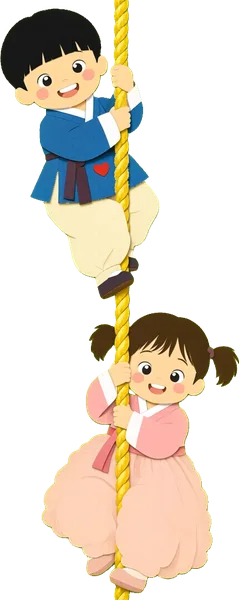
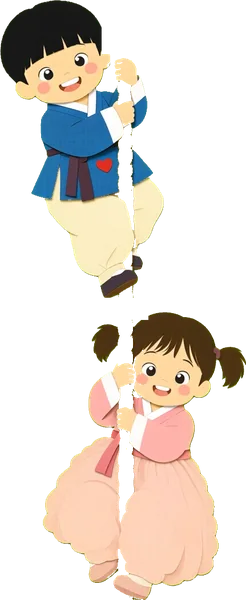
해님달님 피드백 반영: 오색 꿀떡, 엄마 손·호랑이 발·밀가루 발, 겁먹은 오누이, 두레박, 우물 컷 피부색, 참기름은 흘러내리는 자국, 동아줄 하나만, 해·달 얼굴, 장독대 뒷마당(달밤)
Claude-Session: https://claude.ai/code/session_01TGgx6k6hUQMHacUcyCA6Jo

diff --git a/tales/sunmoon/sunmoon.js b/tales/sunmoon/sunmoon.js
@@ -23,7 +23,7 @@
     hill1: 'v3w/sm_bg_hill_dusk.webp',
     hill2: 'v3w/sm_bg_hill_dusk_night.webp',
     room: 'v3w/sm_bg_room2_lamp.webp',  // 방 안 (노란 장판·닫힌 창호지 문·반닫이·이불·등잔) — 낮 그림을 등잔불 밤으로 구움, 그림 속 등잔 불꽃은 지웠다 (코드가 켠다)
-    backyard: 'v3w/sm_bg_backyard.webp',
+    backyard: 'v3w/sm_bg_backyard2_night.webp', // 뒷마당: 초가 모퉁이·돌담·장독대·감나무 (그림 속 달리는 아이 셋을 지우고 달밤으로 구움)
     sky: 'v3w/sm_bg_sky.webp',               // 구름 사이로 빛이 드는 밤하늘 (무대 뒤에 고정, 줄·구름·오누이만 위로 흐른다)
     sorghum: 'v3w/sm_bg_sorghum_dusk.webp',  // 수수밭 — 원본은 한낮이라 해 질 녘 보랏빛으로 구움 (줄이 끊어진 건 밤)
     heaven: 'v3w/sm_bg_heaven.webp', heavenNight: 'v3w/sm_bg_heaven_night.webp', // 밤 = 같은 그림을 푸른 밤으로 구운 것 (톡 하면 서서히 바뀜)         // 하늘 나라 — 그림 속 해·달은 지웠다 (해님·달님은 오누이 배우). 밤은 코드의 남색 장막
@@ -48,18 +48,22 @@
        cut_eye(두 번 다 호랑이 이마에 세 번째 눈) */
   const ART = {
     mom_wave: 'v3w/sm_mom_wave.webp', mom_basket: 'v3w/sm_mom_basket.webp',
-    boy: 'v3w/sm_boy.webp', girl: 'v3w/sm_girl.webp', kids_hug: 'v3w/sm_kids_hug.webp',
+    boy: 'v3w/sm_boy.webp', girl: 'v3w/sm_girl.webp', kids_hug: 'v3w/sm_kids_scared.webp', // 덜덜 떨 때: 둘이 껴안고 겁먹은 얼굴 (sm_kids_scared)
     kids_climb: 'v3w/sm_kids_climb.webp',
     boy_face: 'v3w/sm_boy_face.webp', girl_face: 'v3w/sm_girl_face.webp',
     tiger: 'v3w/sm_tiger.webp', tiger_full: 'v3w/sm_tiger_full.webp', tiger_scarf: 'v3w/sm_tiger_scarf.webp',
     tiger_axe: 'v3w/sm_tiger_axe.webp', tiger_slip: 'v3w/sm_tiger_slip.webp', tiger_bump: 'v3w/sm_tiger_bump.webp',
     rope_good: 'v3w/sm_rope_good.webp', rope_bad: 'v3w/sm_rope_bad.webp', oil: 'v3w/sm_oil.webp',
     kids_rope: 'v3w/sm_kids_rope.webp', // 새 모습 오누이가 세로 금빛 동아줄을 오른다 (하늘 오르기)
-    cake: 'v3w/sm_cake.webp', cake_pink: 'v3w/sm_cake_pink.webp', plate: 'v3w/sm_plate.webp', // 흰 떡(분홍 꽃)·분홍 떡(초록 잎)·빈 나무 접시
+    // 오색꿀떡 (흰 꿀떡 한 장의 명암을 살려 다섯 빛깔로 물들인 것) + 빈 나무 접시
+    kkul_white: 'v3w/sm_kkul_white.webp', kkul_pink: 'v3w/sm_kkul_pink.webp', kkul_yellow: 'v3w/sm_kkul_yellow.webp',
+    kkul_green: 'v3w/sm_kkul_green.webp', kkul_purple: 'v3w/sm_kkul_purple.webp', plate: 'v3w/sm_plate.webp',
+    hand_mom: 'v3w/sm_hand_mom.webp', paw_tiger: 'v3w/sm_paw_tiger.webp', paw_flour: 'v3w/sm_paw_flour.webp', // 문틈 손 고르기
+    bucket: 'v3w/sm_bucket.webp', // 두레박 (새끼줄에 매단 나무통)
     lamp_flame: 'v3w/sm_lamp_flame.webp', // 등잔 불꽃만 — 방 그림 속 등잔 심지 위에 켠다
-    sun_girl: 'v3w/sm_sun_girl.webp', moon_boy: 'v3w/sm_moon_boy.webp', lamp_on: 'v3w/sm_lamp_on.webp', lamp_off: 'v3w/sm_lamp_off.webp',
+    sun_girl: 'v3w/sm_sun_girl2.webp', moon_boy: 'v3w/sm_moon_boy2.webp', lamp_on: 'v3w/sm_lamp_on.webp', lamp_off: 'v3w/sm_lamp_off.webp',
     basket: null,
-    cut_well: 'v3w/sm_cut_well.webp', cut_snap: 'v3w/sm_cut_snap.webp', cut_eye: null,
+    cut_well: 'v3w/sm_cut_well2.webp', cut_snap: 'v3w/sm_cut_snap.webp', cut_eye: null,
   };
   const artOK = {};
   const artUrl = k => (ART[k] && artOK[k] !== false ? AS + ART[k] : null);
@@ -102,7 +106,7 @@
   /* 크기 (무대 단위, 배우 scale 1): 자세가 바뀌어도 머리 크기가 튀지 않게 그림마다 맞춘 값 */
   const SZ = {
     mom_wave: [125, 240], mom_basket: [114, 240],
-    boy: [71, 150], girl: [89, 158], kids_hug: [116, 146], kids_climb: [83, 223], kids_rope: [103, 259],
+    boy: [71, 150], girl: [89, 158], kids_hug: [124, 150], kids_climb: [83, 223], kids_rope: [103, 259],
     // tiger_scarf = 엄마 옷(분홍 저고리·회색 치마) 입은 호랑이 (이름만 그대로)
     tiger: [150, 235], tiger_full: [192, 230], tiger_scarf: [175, 217], tiger_axe: [159, 240], tiger_slip: [218, 225], tiger_bump: [176, 205],
   };
@@ -181,11 +185,12 @@
 
   /* ================= 캐릭터 (임시 도형) ================= */
   /* 떡: 그림이면 흰 떡(분홍 꽃)·분홍 떡(초록 잎)을 i로 번갈아. (x,y)가 떡 가운데, 폭 26·s — 세기 쉽게 늘 떡 사이가 떨어지게 놓는다 */
-  const CAKE = { cake: 1.1967, cake_pink: 1.3035 };
+  const KKUL = ['kkul_white', 'kkul_pink', 'kkul_yellow', 'kkul_green', 'kkul_purple'];
   function drawCake(T, p, x, y, s = 1, i = 0) {
-    const k = i % 2 ? 'cake_pink' : 'cake', u = artUrl(k);
+    const k = KKUL[((i % 5) + 5) % 5], u = artUrl(k);
     if (u) {
-      const w = 26 * s, h = w / CAKE[k], g = T.el('g', { filter: 'url(#pp)' }, p);
+      // 오색꿀떡: 폭 26·s (옛 떡 자리 그대로라 줄 간격·개수가 바뀌지 않는다), 둥근 꿀떡 비율 1.27
+      const w = 26 * s, h = w / 1.274, g = T.el('g', { filter: 'url(#pp)' }, p);
       T.el('image', { href: u, x: x - w / 2, y: y - h / 2, width: w, height: h }, g);
       return g;
     }
@@ -519,7 +524,7 @@
       // 그림 나무 접시 (없으면 흰 접시)
       if (!sprite(T, el('g', { transform: `translate(${690 + dx} ${400 + dy + 44})` }, plate), 'plate', 236, 96))
         T.paper(plate, [['ellipse', { cx: 690 + dx, cy: 400 + dy, rx: 110, ry, fill: C.snow, stroke: C.gold, 'stroke-width': 5 }]]);
-      plateCakes = [[630, 394], [690, 396], [750, 394], [660, 370], [720, 370]].map(([x, y]) => ({ x: x + dx, y: y + dy, g: drawCake(T, plate, x + dx, y + dy, 1.8, x === 690 || x === 660 ? 1 : 0) }));
+      plateCakes = [[630, 394], [690, 396], [750, 394], [660, 370], [720, 370]].map(([x, y]) => ({ x: x + dx, y: y + dy, g: drawCake(T, plate, x + dx, y + dy, 1.8, [630, 690, 750, 660, 720].indexOf(x)) }));
     });
     await say('엄마는 부잣집에서 하루 종일 부지런히 일했어요.');
     await say('"수고했어요. 떡 가져가요!" 떡을 톡톡 눌러서 바구니에 담아요!');
@@ -539,7 +544,7 @@
       const c = plateCakes[5 - i]; c.g.setAttribute('opacity', 0);
       const [x1, y1] = toBasket(i - 1);
       T.tone(500 + i * 90, .15, { type: 'triangle', vol: .18 });
-      fly(c.x, c.y, x1, y1, 1.8, 450, 5 - i === 1 || 5 - i === 3 ? 1 : 0).then(() => { inBasket = Math.round(TOTAL * i / 5); showBasket(); mom.P.holdBasket(true); AudioFX.pop(); });
+      fly(c.x, c.y, x1, y1, 1.8, 450, 5 - i).then(() => { inBasket = Math.round(TOTAL * i / 5); showBasket(); mom.P.holdBasket(true); AudioFX.pop(); });
       T.pop(c.x, c.y - 90, '영차!', C.bean);
     } });
     await sleep(700);
@@ -773,18 +778,23 @@
       el('rect', { x: -1400, y: -1400, width: 3800, height: 3400, fill: C.amber, opacity: .12 }, T.fx);
     });
     await say('진짜 엄마 손은 뭘까요? 잘 보고 골라 봐요!');
+    // 그림 손 (엄마 손·호랑이 발·밀가루 묻힌 발): 배지 가운데에. 없으면 아래 도형
+    const handArt = (g, k, w, h) => { const u = artUrl(k); if (!u) return false; T.el('image', { href: u, x: -w / 2, y: -h / 2, width: w, height: h, filter: 'url(#pp)' }, g); return true; };
     const handMom = badge(T, 190, 320, 112, g => {
+      if (handArt(g, 'hand_mom', 80, 176)) return;
       T.paper(g, [['ellipse', { cx: 0, cy: 22, rx: 38, ry: 42, fill: C.skin }],
         ...[-27, -9, 9, 27].map((x, i) => ['rect', { x: x - 7, y: -58 + Math.abs(i - 1.5) * 8, width: 14, height: 60, rx: 7, fill: C.skin }]),
         ['rect', { x: 30, y: -2, width: 13, height: 44, rx: 6.5, fill: C.skin, transform: 'rotate(-35 36 20)' }]]);
       [[-12, 20], [10, 34], [-4, 44], [16, 8], [-22, -30]].forEach(([x, y]) => el('circle', { cx: x, cy: y, r: 4, fill: '#fff' }, g));
     });
     const handStripe = badge(T, 500, 320, 112, g => {
+      if (handArt(g, 'paw_tiger', 162, 155)) return;
       T.paper(g, [['path', { d: 'M-60 10 L-66 0 L-58 -8 L-62 -20 L-50 -26 L-50 -40 L-36 -40 L-30 -54 L-16 -46 L0 -58 L14 -46 L30 -54 L36 -40 L50 -40 L50 -26 L62 -20 L58 -8 L66 0 L60 10 L62 30 Q50 72 0 74 Q-50 72 -62 30 Z', fill: C.persimmon }]]);
       [[-34, -34], [-12, -44], [12, -44], [34, -34]].forEach(([x, y]) => el('ellipse', { cx: x, cy: y, rx: 14, ry: 16, fill: C.persimmon, stroke: C.stripe, 'stroke-width': 3 }, g));
       ['M-50 0 L-20 8 L-48 18 Z', 'M50 0 L20 8 L48 18 Z', 'M-40 40 L-12 44 L-36 54 Z', 'M40 40 L12 44 L36 54 Z', 'M-8 -10 L0 16 L8 -10 Z'].forEach(d => el('path', { d, fill: C.stripe }, g));
     });
     const handFlour = badge(T, 810, 320, 112, g => {
+      if (handArt(g, 'paw_flour', 156, 165)) return;
       T.paper(g, [['ellipse', { cx: 0, cy: 18, rx: 58, ry: 54, fill: C.snow, stroke: '#CFC8BA', 'stroke-width': 3 }]]);
       [[-36, -34], [-12, -46], [12, -46], [36, -34]].forEach(([x, y]) => {
         el('ellipse', { cx: x, cy: y, rx: 15, ry: 17, fill: C.snow, stroke: '#CFC8BA', 'stroke-width': 3 }, g);
@@ -801,9 +811,11 @@
     handMom.remove(); handStripe.remove(); handFlour.remove();
     await say('맞아요! 엄마 손은 부드럽고 떡가루가 묻어 있지요.');
     const paw = el('g', { transform: 'translate(500,320)' }, T.world);
-    T.paper(paw, [['ellipse', { cx: 0, cy: 10, rx: 70, ry: 62, fill: C.snow }], ['ellipse', { cx: 0, cy: 20, rx: 28, ry: 20, fill: C.pink }]]);
-    [-40, -14, 14, 40].forEach(x => { el('ellipse', { cx: x, cy: -44, rx: 16, ry: 18, fill: C.snow, stroke: '#CFC8BA', 'stroke-width': 3 }, paw); el('path', { d: `M${x - 6} -58 L${x} -86 L${x + 6} -58 Z`, fill: C.ink }, paw); });
-    [[46, 50], [-50, 44], [0, 64]].forEach(([x, y]) => el('circle', { cx: x, cy: y, r: 8, fill: C.persimmon }, paw));
+    if (!handArt(paw, 'paw_flour', 150, 160)) { // 문틈으로 들어온 손 = 밀가루 묻힌 호랑이 발
+      T.paper(paw, [['ellipse', { cx: 0, cy: 10, rx: 70, ry: 62, fill: C.snow }], ['ellipse', { cx: 0, cy: 20, rx: 28, ry: 20, fill: C.pink }]]);
+      [-40, -14, 14, 40].forEach(x => { el('ellipse', { cx: x, cy: -44, rx: 16, ry: 18, fill: C.snow, stroke: '#CFC8BA', 'stroke-width': 3 }, paw); el('path', { d: `M${x - 6} -58 L${x} -86 L${x + 6} -58 Z`, fill: C.ink }, paw); });
+      [[46, 50], [-50, 44], [0, 64]].forEach(([x, y]) => el('circle', { cx: x, cy: y, r: 8, fill: C.persimmon }, paw));
+    }
     AudioFX.slide();
     await T.anim(paw, [{ transform: 'translate(500px,320px) scale(.1)' }, { transform: 'translate(500px,320px) scale(1.2)' }], { duration: 600, easing: 'cubic-bezier(.3,1.6,.5,1)' });
     paw.setAttribute('transform', 'translate(500,320) scale(1.2)'); paw.style.transform = '';
@@ -850,14 +862,15 @@
 
     /* --- 10. 뒷마당 도망 --- */
     let yard, hideJar, bigJar, prowl;
-    /* 뒷마당 그림(장독대 → 빨랫줄 → 우물 → 큰 나무)을 뒷마당 긴 세트 안에 1.75배로 깐다.
-       그림 왼쪽 바깥(x<520)은 그레이박스 집 뒷문 자리. 좌표: 장독(숨는 곳) x≈575~795, 그림 끝 x=2270 */
-    const YARD = bgUrl('backyard') ? { x: 520, y: -186, w: 1750, h: 1750 * 992 / 1760 } : null;
-    const YJ = YARD ? { run1: 150, hide: [720, 660], out: [930, 850], run2: 250, prowl: [100, T.portrait() ? 760 : 840] }
-      : { run1: 320, hide: [1110, 1050], out: [1330, 1250], run2: 330, prowl: [520, 900] };
-    /* 맨 앞 큰 장독 (원본 픽셀): 뚜껑 → 어깨 → 몸통 → 밑동. 가림막은 밑동 아래 땅까지 */
-    const JAR = [[97, 452], [228, 452], [240, 488], [272, 508], [274, 530], [262, 540], [276, 595], [268, 650], [240, 705]];
-    const JAR_L = [[102, 705], [70, 650], [52, 595], [66, 540], [68, 530], [70, 508], [86, 488]];
+    /* 뒷마당 그림 한 장(왼쪽 초가 모퉁이 → 마당 → 오른쪽 돌 장독대·감나무)을 1600 폭으로 깔고 카메라가 따라간다.
+       오누이는 마당(땅 y 520)을 달려 장독대 위, 맨 앞 큰 장독(무대 x 760~903) 뒤에 작아져서(원근) 숨는다. 그림 끝 x=1560 */
+    const YARD = bgUrl('backyard') ? { x: -40, y: -250, w: 1600, h: 1600 * 992 / 1760 } : null;
+    const YJ = YARD ? { run1: 150, hide: [868, 812], hideY: 332, hideS: .7, out: [930, 850], run2: 250, prowl: [100, T.portrait() ? 790 : 840] }
+      : { run1: 320, hide: [1110, 1050], hideY: 510, hideS: 1, out: [1330, 1250], run2: 330, prowl: [520, 900] };
+    /* 맨 앞 큰 장독 (원본 픽셀): 뚜껑 → 어깨 → 몸통 → 밑동. 가림막은 밑동 아래 장독대 윗면까지 (발이 안 보이게) */
+    const JAR = [[913, 437], [1000, 440], [1018, 468], [1022, 480], [1037, 527], [1025, 600], [1013, 627]];
+    const JAR_L = [[912, 627], [900, 603], [880, 530], [883, 500], [895, 468]];
+    const JAR_FOOT = [[1013, 660], [912, 660]];
     const yardCam = nb => {
       const x = T.portrait() ? nb + 40 : Math.max(500, nb + 180);
       return YARD ? Math.min(x, YARD.x + YARD.w - T.viewWidth() / 2) : x;
@@ -867,19 +880,14 @@
       yard = mkView(T, T.world);
       if (YARD) {
         // 그림 바깥 (왼쪽: 집 뒷문 자리, 오른쪽: 넓은 화면 여유) — 그림 가장자리 색에 맞춘 단색 띠
-        sky(T, yard, '#03237a');
-        T.el('path', { d: 'M-800 200 Q-420 120 -60 170 Q260 110 640 185 V700 H-800 Z', fill: '#1b2f78' }, yard);
-        T.el('path', { d: 'M-800 280 Q-300 240 200 270 Q450 250 640 280 V700 H-800 Z', fill: '#0f1c4e' }, yard);
-        T.el('rect', { x: -800, y: 360, width: 1400, height: 600, fill: '#3a1c06' }, yard);
-        T.el('rect', { x: -800, y: 468, width: 1400, height: 500, fill: '#b36a06' }, yard);
-        T.el('rect', { x: 2200, y: 150, width: 1400, height: 800, fill: '#1c0f06' }, yard);
-        T.el('rect', { x: 2200, y: 420, width: 1400, height: 520, fill: '#d98601' }, yard);
+        sky(T, yard, '#334386');
+        T.el('rect', { x: -1400, y: 330, width: 4400, height: 900, fill: '#767896' }, yard); // 그림 밖 땅 (그림 가장자리 색)
         place(T, yard, bgUrl('backyard'), YARD);
-        drawHouse(T, yard, 0, 470, 1);
+        stars(T, yard, [[180, -170], [420, -210], [660, -150], [1300, -200], [1480, -120]], 3.5);
         boy = mkBoy(T, yard, 230, 520, 1); girl = mkGirl(T, yard, 140, 520, .92);
         // 그림 속 장독을 오려 배우 앞에: 가림막(밑동 아래 땅까지) + 누르는 장독(장독 모양만, 반짝임 테두리용)
         const jars = el('g', {}, yard);
-        bigJar = bgCutout(T, jars, bgUrl('backyard'), YARD, [...JAR, [240, 1040], [102, 1040], ...JAR_L]);
+        bigJar = bgCutout(T, jars, bgUrl('backyard'), YARD, [...JAR, ...JAR_FOOT, ...JAR_L]);
         hideJar = el('g', {}, jars);
         bgCutout(T, hideJar, bgUrl('backyard'), YARD, [...JAR, ...JAR_L]);
         if (T.portrait()) yard.to(330, 280, 1, 0); // 세로 화면: 오누이가 보이게 마당 왼쪽부터
@@ -920,7 +928,9 @@
     AudioFX.slide();
     const jarsG = hideJar.parentNode;
     yard.insertBefore(boy.pos, jarsG); yard.insertBefore(girl.pos, jarsG);
-    await Promise.all([boy.move(YJ.hide[0], 510, 500), girl.move(YJ.hide[1], 510, 500)]);
+    // 장독대 위로 폴짝 → 큰 장독 뒤에 (그림 장독대는 안쪽이라 원근으로 작아진다)
+    await Promise.all([boy.move(YJ.hide[0], YJ.hideY, 500), girl.move(YJ.hide[1], YJ.hideY, 500), boy.hop(40, 500), girl.hop(40, 500)]);
+    boy.setScale(YJ.hideS); girl.setScale(YJ.hideS * .92);
     prowl = mkTiger(T, yard, YJ.prowl[0], 530, 1);
     prowl.P.wear('scarf'); prowl.P.setBelly(2.4); prowl.face('right');
     await prowl.move(YJ.prowl[1], 530, 1400);
@@ -929,7 +939,9 @@
     await say('"얘들아~ 어디 갔니?" 호랑이는 두리번두리번하다가 집 쪽으로 돌아갔어요.');
     await prowl.move(YJ.prowl[0] - 120, 530, 1300);
     prowl.pos.remove();
-    await Promise.all([boy.move(YJ.out[0], 520, 500), girl.move(YJ.out[1], 520, 500)]);
+    boy.setScale(1); girl.setScale(.92);
+    yard.appendChild(boy.pos); yard.appendChild(girl.pos); // 장독 앞으로 나온다
+    await Promise.all([boy.move(YJ.out[0], 520, 500), girl.move(YJ.out[1], 520, 500), boy.hop(30, 500), girl.hop(30, 500)]);
     await say('휴~ 이제 우물가 큰 나무로 달려가요! 쓱쓱!');
     await T.swipe(stageWrap, { dir: 'right', count: 3, prompt: '화면을 옆으로 쓱 밀어서 달려요!', onStep: () => run2(YJ.run2) });
     await sleep(700);
@@ -1010,7 +1022,10 @@
       el('rect', { x: 380, y: 200, width: 240, height: 170, fill: 'transparent' }, refl);
       drawKidFace(T, refl, false, 450, 290, 1.5); drawKidFace(T, refl, true, 560, 296, 1.4);
       bucket = el('g', {}, T.world);
-      T.paper(bucket, [['path', { d: 'M0 -600 V-30', stroke: '#C9B48A', 'stroke-width': 5, fill: 'none' }], ['path', { d: 'M-34 -30 H34 L26 20 H-26 Z', fill: C.bark }], ['path', { d: 'M-30 -30 Q0 -64 30 -30', stroke: C.ink, 'stroke-width': 4, fill: 'none' }]]);
+      if (artUrl('bucket')) { // 그림 두레박: 통 바닥이 y 20, 그림 위끝(새끼줄)에서 위로는 같은 빛깔 줄을 이어 그린다
+        el('path', { d: 'M0 -600 V-100', stroke: '#B79A62', 'stroke-width': 5, fill: 'none' }, bucket);
+        T.el('image', { href: artUrl('bucket'), x: -31, y: -100, width: 62, height: 120, filter: 'url(#pp)' }, bucket);
+      } else T.paper(bucket, [['path', { d: 'M0 -600 V-30', stroke: '#C9B48A', 'stroke-width': 5, fill: 'none' }], ['path', { d: 'M-34 -30 H34 L26 20 H-26 Z', fill: C.bark }], ['path', { d: 'M-30 -30 Q0 -64 30 -30', stroke: C.ink, 'stroke-width': 4, fill: 'none' }]]);
       bucket.setAttribute('transform', 'translate(700,-120)');
       const t = mkTiger(T, T.world, 820, 800, 1.5);
       t.P.wear('scarf');
@@ -1041,7 +1056,19 @@
       const t = mkTiger(T, tree, 760, 560, 1.1);
       t.P.wear('scarf'); t.P.setBelly(2.4);
       T.world.__t = t;
-      oil = el('rect', { x: 606, y: 560, width: 70, height: 0, fill: C.amber, opacity: .75 }, tree);
+      /* 참기름: 나무 기둥을 타고 흘러내리는 반짝이는 기름 줄기 (끝이 뾰족한 호박빛 방울 + 밝은 줄 하이라이트, 반투명).
+         위에서부터 흘러내리게 clip 상자를 아래로 늘린다 */
+      oil = el('g', {}, tree);
+      const oc = el('clipPath', { id: 'oilRun' }, oil); oil.__clip = el('rect', { x: 560, y: 40, width: 170, height: 0 }, oc);
+      const og = el('g', { 'clip-path': 'url(#oilRun)' }, oil);
+      // 기둥이 젖은 듯 얇은 기름막 (가장자리가 물결) + 길이·굵기가 다른 기름 방울 줄기 6개 (아래끝이 동글게 맺힘) + 짧은 반짝임
+      el('path', { d: 'M606 40 Q600 200 610 330 Q598 420 612 520 Q640 548 670 522 Q684 420 672 330 Q682 200 676 40 Z', fill: '#E3A53A', opacity: .28 }, og);
+      [[-26, 40, 300, 12], [-14, 60, 470, 16], [-1, 40, 400, 11], [11, 90, 535, 18], [24, 40, 360, 13], [33, 140, 450, 10]].forEach(([dx, y0, y1, w]) => {
+        const x = 641 + dx;
+        el('path', { d: `M${x - w * .32} ${y0} Q${x - w * .28} ${y1 - 70} ${x - w * .22} ${y1 - w * 1.3} C${x - w * .62} ${y1 - w * .5} ${x - w * .45} ${y1 + w * .55} ${x} ${y1 + w * .55} C${x + w * .45} ${y1 + w * .55} ${x + w * .62} ${y1 - w * .5} ${x + w * .22} ${y1 - w * 1.3} Q${x + w * .28} ${y1 - 70} ${x + w * .32} ${y0} Z`, fill: '#D9952A', opacity: .78 }, og);
+        el('ellipse', { cx: x - w * .14, cy: y1 - w * .05, rx: w * .14, ry: w * .22, fill: '#FFF2C8', opacity: .9 }, og);
+        el('path', { d: `M${x - w * .08} ${y1 - 120} Q${x - w * .12} ${y1 - 90} ${x - w * .1} ${y1 - 66}`, stroke: '#FFE6A0', 'stroke-width': 2.5, fill: 'none', 'stroke-linecap': 'round', opacity: .8 }, og);
+      });
       tree.insertBefore(oil, t.pos);
       bottle = el('g', {}, tree);
       el('rect', { x: 860, y: 330, width: 170, height: 240, fill: 'transparent' }, bottle);
@@ -1063,7 +1090,7 @@
     await T.anim(bottle, [{ transform: 'rotate(0deg)' }, { transform: 'rotate(-60deg)' }], 400);
     bottle.style.transform = 'rotate(-60deg)';
     AudioFX.slide();
-    for (let hgt = 0; hgt <= 520; hgt += 26) { oil.setAttribute('y', 560 - hgt); oil.setAttribute('height', hgt); await sleep(16); }
+    for (let hgt = 0; hgt <= 540; hgt += 27) { oil.__clip.setAttribute('height', hgt); await sleep(16); }
     T.pop(640, 110, '주르륵', C.gold);
     await sleep(400);
     for (let k = 0; k < 2; k++) {
@@ -1264,8 +1291,9 @@
       const face = drawKidFace(T, g, girlFace, 0, 8, 1.6);
       // 그림 해님(동생 얼굴이 든 해): 동생이 해가 되면 이 한 장만 (그림 속 얼굴을 쓰니 얼굴 조각은 숨긴다)
       // 그림 달님(보름달 앞에 선 오빠): 오빠가 달이 되면 이 한 장만. 둘 다 얼굴·몸이 그림에 있어 얼굴 조각은 숨긴다
-      const sunArt = girlFace ? sprite(T, g, 'sun_girl', 276, 270, { dy: 135 }) : null;
-      const moonArt = girlFace ? null : sprite(T, g, 'moon_boy', 178, 310, { dy: 155 });
+      // 바꾼 뒤: 해님 = 동생 얼굴이 든 해(sun_girl2), 달님 = 오빠 얼굴이 든 보름달(moon_boy2)
+      const sunArt = girlFace ? sprite(T, g, 'sun_girl', 260, 260, { dy: 130 }) : null;
+      const moonArt = girlFace ? null : sprite(T, g, 'moon_boy', 230, 232, { dy: 116 });
       P.set = s => {
         const art = s ? sunArt : moonArt;
         P.sun.setAttribute('opacity', s && !art ? 1 : 0); P.moon.setAttribute('opacity', !s && !art ? 1 : 0);
